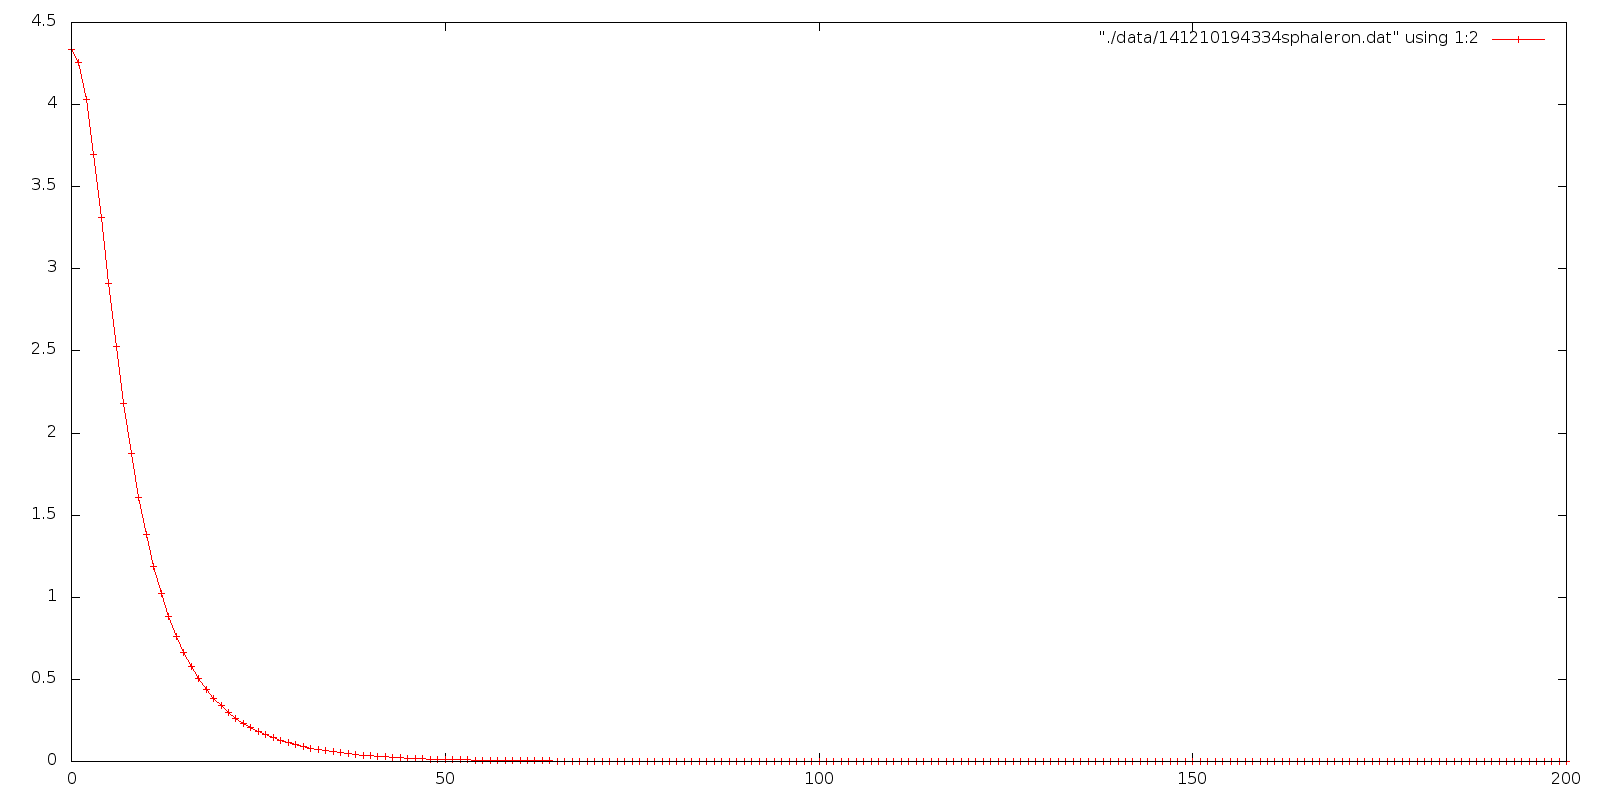
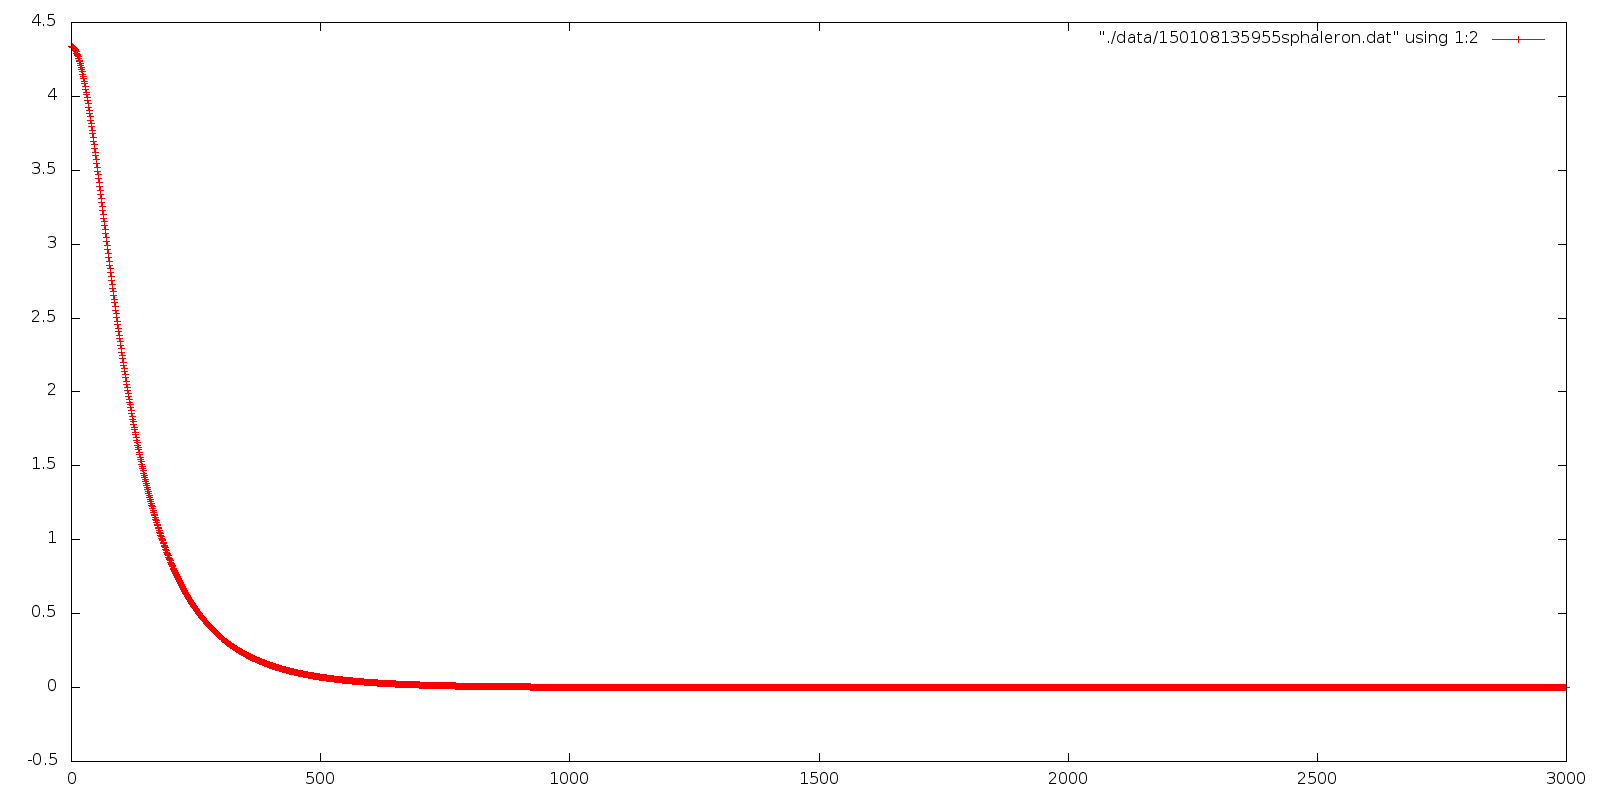
commit to merge

diff --git a/pi.cc b/pi.cc
@@ -431,7 +431,7 @@ for (unsigned int loop=0; loop<aq.totalLoops; loop++)
 			comp t = coordB(j,0);
 			comp x = coordB(j,1);
 			p(2*j+1) = 0.0; //imaginary parts set to zero
-			if (pot[3]!='3')
+			if (pot[0]!='3')
 				{
 				if (inP.compare("b")==0 || (inP.compare("p")==0 && Tb>R))
 					{
@@ -640,7 +640,7 @@ for (unsigned int loop=0; loop<aq.totalLoops; loop++)
 			unsigned int t = intCoord(j,0,Nb); //coordinates
 			unsigned int neighPosX = neigh(j,1,1,Nb,N);
 			
-			if (absolute(Chi0(j))>1.0e-16) //zero mode lagrange constraint
+			if (absolute(Chi0(j))>1.0e-16 && pot[0]!='3')  //zero mode lagrange constraint
 				{
 				DDS.insert(2*j,2*N*Nb) = a*Chi0(j); 
 				DDS.insert(2*N*Nb,2*j) = a*Chi0(j);

diff --git a/sphaleron.cc b/sphaleron.cc
@@ -62,7 +62,7 @@ double F = 1.0, dF;
 double aim = 0.0;
 double closeness = 1.0e-8;
 double r0 = 1.0e-16, r1 = 16.0;
-const unsigned int N = 2e2;
+const unsigned int N = 3e3;
 double dr = r1-r0;
 dr /= (double)N;
 vec y0Vec(N+1), y2Vec(N+1);
